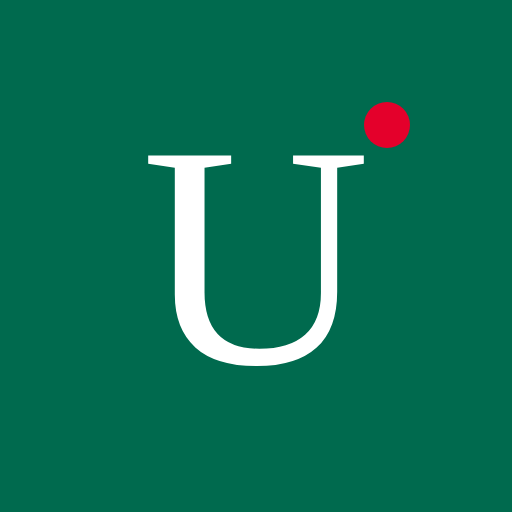
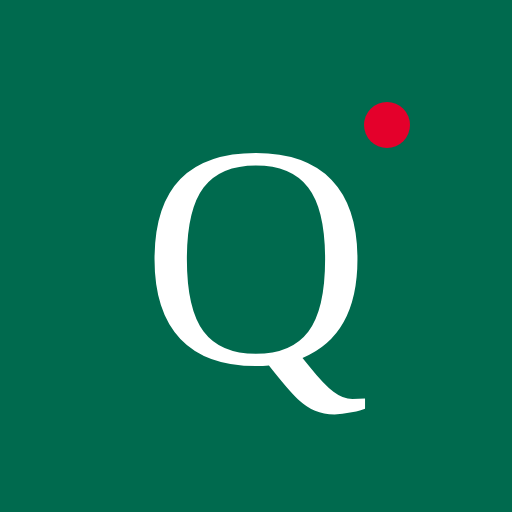
Rename the platform to Quest
Updates the name, logo mark and app icons, and the browser storage keys
(no real users yet, so no migration is needed).

Claude-Session: https://claude.ai/code/session_01CaGaaoMMYyLzPhHCZJfw9x

Changed region(s): [[0.2812, 0.2812, 0.7188, 0.8125]]

diff --git a/web/src/lib/store.ts b/web/src/lib/store.ts
@@ -72,12 +72,12 @@ export function useHydrated() {
   return useSyncExternalStore(noop, () => true, () => false);
 }
 
-export const profileStore = createStore<Profile | null>("uttoron.profile", null);
-export const listStore = createStore<ListEntry[]>("uttoron.list", []);
-export const roadmapStore = createStore<string[]>("uttoron.roadmap.done", []);
+export const profileStore = createStore<Profile | null>("quest.profile", null);
+export const listStore = createStore<ListEntry[]>("quest.list", []);
+export const roadmapStore = createStore<string[]>("quest.roadmap.done", []);
 
 export type ChatMessage = { role: "user" | "assistant"; content: string };
-export const chatStore = createStore<ChatMessage[]>("uttoron.chat", []);
+export const chatStore = createStore<ChatMessage[]>("quest.chat", []);
 
 export const useProfile = () => useStore(profileStore);
 export const useList = () => useStore(listStore);

diff --git a/web/src/components/Logo.tsx b/web/src/components/Logo.tsx
@@ -6,12 +6,12 @@ export function Logo({ tone = "dark" }: { tone?: "dark" | "light" }) {
   return (
     <Link href="/" className={`flex items-center gap-3 ${text}`} aria-label={`${site.name} home`}>
       <span className="relative grid place-items-center size-11 bg-accent text-paper font-serif text-2xl leading-none">
-        U<span className="absolute right-1 top-1 size-1.5 rounded-full bg-signal" />
+        Q<span className="absolute right-1 top-1 size-1.5 rounded-full bg-signal" />
       </span>
       <span className="leading-none">
         <span className="block font-serif text-[1.6rem] tracking-[0.08em] uppercase">{site.name}</span>
         <span className="block text-[0.72rem] tracking-[0.2em] uppercase opacity-80 mt-1">
-          {site.bangla} · US admissions
+          US admissions · Bangladesh
         </span>
       </span>
     </Link>

diff --git a/web/src/lib/site.ts b/web/src/lib/site.ts
@@ -1,7 +1,6 @@
 // Single place to rename the platform or change its navigation.
 export const site = {
-  name: "Uttoron",
-  bangla: "উত্তরণ",
+  name: "Quest",
   tagline: "Your free companion for applying to US universities from Bangladesh.",
   description:
     "Build your college list, track every step, find programs and full-aid opportunities, and get help with your profile. Free, always.",

diff --git a/README.md b/README.md
@@ -1,11 +1,11 @@
-# Uttoron (উত্তরণ)
+# Quest
 
 A free companion for students in Bangladesh applying to US universities: a
 roadmap from class 7 to the visa interview, a college list with each college's
 aid policy for international students, special programs and opportunities, a
 profile, and an AI assistant that reads the profile.
 
-"Uttoron" is a placeholder name. Change it in `web/src/lib/site.ts`.
+The name and navigation live in `web/src/lib/site.ts`.
 
 ## What's in version 1
 
